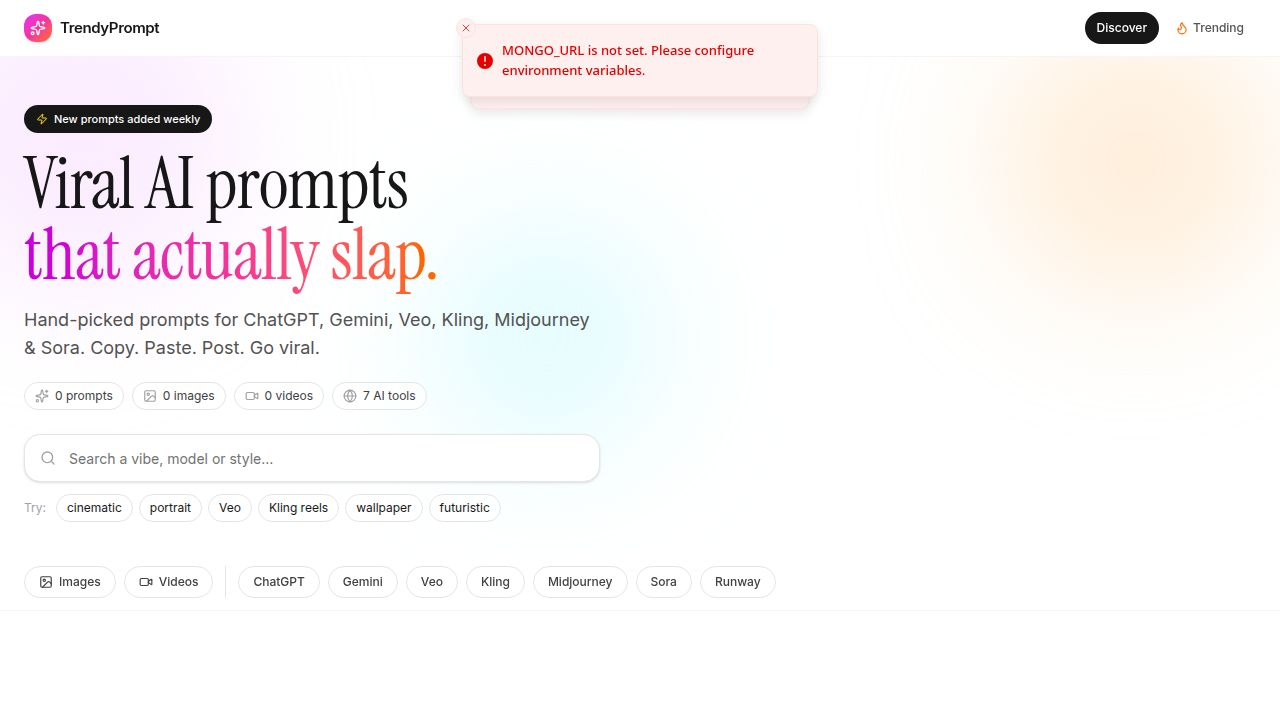
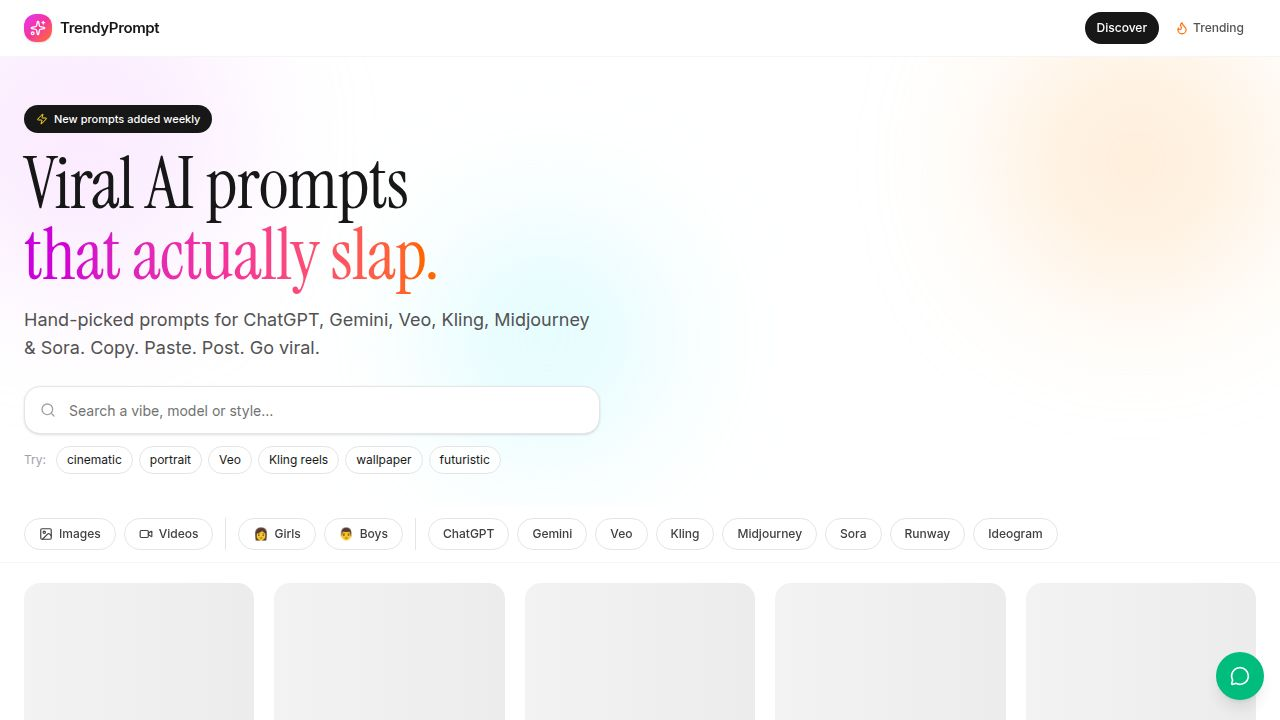
Implement 3 new features: gender filter, Ideogram tool, multi-photo carousel
1. Gender filter (Male/Female)
   - Added `gender` field to Prompt/FormState interfaces in both Home.tsx and Admin.tsx
   - Gender selector (Unisex/Male/Female) toggle in Admin editor form
   - 👩 Girls / 👨 Boys filter pills in Home filter bar between Types and Tools
   - Backend prompts.ts: gender query param filters MongoDB documents by gender field

2. Ideogram added to AI tools
   - Added 'Ideogram' to TOOLS array in both Home.tsx and Admin.tsx
   - Now shows in filter bar and admin tool selector (8 AI tools total)

3. Multiple photos per prompt with carousel display
   - Added `images: string[]` to Prompt/FormState interfaces
   - Admin editor: "Extra photos" section with multi-file upload (up to 9), thumbnail strip with delete
   - PromptCard: if images.length > 1, renders a carousel with prev/next arrow buttons and dot indicators
   - Single thumbnail display unchanged when no extra images

diff --git a/artifacts/trendyprompt/src/pages/Home.tsx b/artifacts/trendyprompt/src/pages/Home.tsx
@@ -319,6 +319,17 @@ function HomeView({ navigate, trendingOnly }: { navigate: (h: string) => void; t
             )
           })}
           <div className="w-px self-stretch bg-neutral-200 mx-1" />
+          {GENDERS.map((g) => {
+            const active = gender === g.key
+            return (
+              <button key={g.key} onClick={() => setGender(active ? null : g.key)}
+                className={cn('shrink-0 inline-flex items-center gap-1.5 px-3.5 h-8 rounded-full text-xs font-medium transition border',
+                  active ? 'bg-neutral-900 text-white border-neutral-900' : 'bg-white text-neutral-700 border-neutral-200 hover:border-neutral-300')}>
+                <span>{g.emoji}</span> {g.label}
+              </button>
+            )
+          })}
+          <div className="w-px self-stretch bg-neutral-200 mx-1" />
           {TOOLS.map((tn) => {
             const active = tool === tn
             return (
@@ -395,10 +406,21 @@ function EmptyState() {
 
 function PromptCard({ prompt, onClick }: { prompt: Prompt; onClick: () => void }) {
   const isVideo = prompt.type === 'video' && !!prompt.videoUrl
+  const hasCarousel = !isVideo && (prompt.images?.length ?? 0) > 1
   const videoRef = useRef<HTMLVideoElement>(null)
   const cardRef = useRef<HTMLDivElement>(null)
   const [muted, setMuted] = useState(true)
   const [copied, setCopied] = useState(false)
+  const [imgIndex, setImgIndex] = useState(0)
+
+  const prevImg = (e: React.MouseEvent) => {
+    e.stopPropagation()
+    setImgIndex(i => (i - 1 + (prompt.images?.length ?? 1)) % (prompt.images?.length ?? 1))
+  }
+  const nextImg = (e: React.MouseEvent) => {
+    e.stopPropagation()
+    setImgIndex(i => (i + 1) % (prompt.images?.length ?? 1))
+  }
 
   useEffect(() => {
     if (!isVideo) return
@@ -456,6 +478,29 @@ function PromptCard({ prompt, onClick }: { prompt: Prompt; onClick: () => void }
           preload="metadata"
           className="w-full h-auto object-cover block"
         />
+      ) : hasCarousel ? (
+        <div className="relative overflow-hidden">
+          <img
+            src={prompt.images![imgIndex]}
+            alt={prompt.title}
+            loading="lazy"
+            className="w-full h-auto object-cover block transition-opacity duration-300"
+          />
+          <button onClick={prevImg}
+            className="absolute left-1.5 top-1/2 -translate-y-1/2 w-7 h-7 rounded-full bg-black/40 hover:bg-black/60 grid place-items-center text-white backdrop-blur-sm">
+            <ChevronLeft className="w-4 h-4" />
+          </button>
+          <button onClick={nextImg}
+            className="absolute right-1.5 top-1/2 -translate-y-1/2 w-7 h-7 rounded-full bg-black/40 hover:bg-black/60 grid place-items-center text-white backdrop-blur-sm">
+            <ChevronRight className="w-4 h-4" />
+          </button>
+          <div className="absolute bottom-2 inset-x-0 flex justify-center gap-1">
+            {prompt.images!.map((_, di) => (
+              <button key={di} onClick={(e) => { e.stopPropagation(); setImgIndex(di) }}
+                className={cn('w-1.5 h-1.5 rounded-full transition', di === imgIndex ? 'bg-white' : 'bg-white/40')} />
+            ))}
+          </div>
+        </div>
       ) : prompt.thumbnail ? (
         <img
           src={prompt.thumbnail}

diff --git a/artifacts/trendyprompt/src/pages/Admin.tsx b/artifacts/trendyprompt/src/pages/Admin.tsx
@@ -469,9 +469,55 @@ function Editor({ navigate, editId }: { navigate: (h: string) => void; editId: s
         </div>
 
         <div>
+          <div className="flex items-center justify-between">
+            <FieldLabel>Extra photos <span className="text-neutral-400 font-normal text-[11px]">(carousel — up to 9)</span></FieldLabel>
+            <Button type="button" size="sm" variant="ghost" onClick={() => extraImagesRef.current?.click()} disabled={extraUploading || form.images.length >= 9} className="h-7">
+              {extraUploading ? <Loader2 className="w-3.5 h-3.5 animate-spin mr-1" /> : <Plus className="w-3.5 h-3.5 mr-1" />}
+              Add photos
+            </Button>
+          </div>
+          <input ref={extraImagesRef} type="file" accept="image/*" multiple hidden onChange={handleExtraImages} />
+          {form.images.length > 0 && (
+            <div className="mt-2 flex gap-2 overflow-x-auto pb-1 no-scrollbar">
+              {form.images.map((url, i) => (
+                <div key={i} className="relative shrink-0 w-24 h-24 rounded-xl overflow-hidden bg-neutral-100 border border-neutral-200">
+                  <img src={url} alt="" className="w-full h-full object-cover" />
+                  <button type="button" onClick={() => removeExtraImage(i)}
+                    className="absolute top-1 right-1 bg-white/90 rounded-full p-0.5 hover:bg-white">
+                    <X className="w-3 h-3 text-neutral-700" />
+                  </button>
+                  <span className="absolute bottom-1 left-1 text-[9px] bg-black/50 text-white px-1 rounded">{i + 1}</span>
+                </div>
+              ))}
+            </div>
+          )}
+          {form.images.length === 0 && (
+            <p className="text-[11px] text-neutral-400 mt-1">Add multiple photos to show a carousel on the card. First photo shows first.</p>
+          )}
+        </div>
+
+        <div>
           <FieldLabel>Title</FieldLabel>
           <Input className="mt-2 h-11" placeholder="e.g. Cinematic foggy portrait"
             value={form.title} onChange={(e) => setField('title', e.target.value)} />
+        </div>
+
+        <div>
+          <FieldLabel>Gender</FieldLabel>
+          <div className="mt-2 inline-flex p-1 rounded-full bg-neutral-100">
+            <button type="button" onClick={() => setField('gender', '')}
+              className={cn('px-4 h-8 rounded-full text-xs font-medium transition',
+                !form.gender ? 'bg-white text-neutral-900 shadow-sm' : 'text-neutral-500')}>
+              Unisex
+            </button>
+            {GENDERS.map((g) => (
+              <button key={g.key} type="button" onClick={() => setField('gender', form.gender === g.key ? '' : g.key)}
+                className={cn('px-4 h-8 rounded-full text-xs font-medium transition',
+                  form.gender === g.key ? 'bg-white text-neutral-900 shadow-sm' : 'text-neutral-500')}>
+                {g.label}
+              </button>
+            ))}
+          </div>
         </div>
 
         <div>
